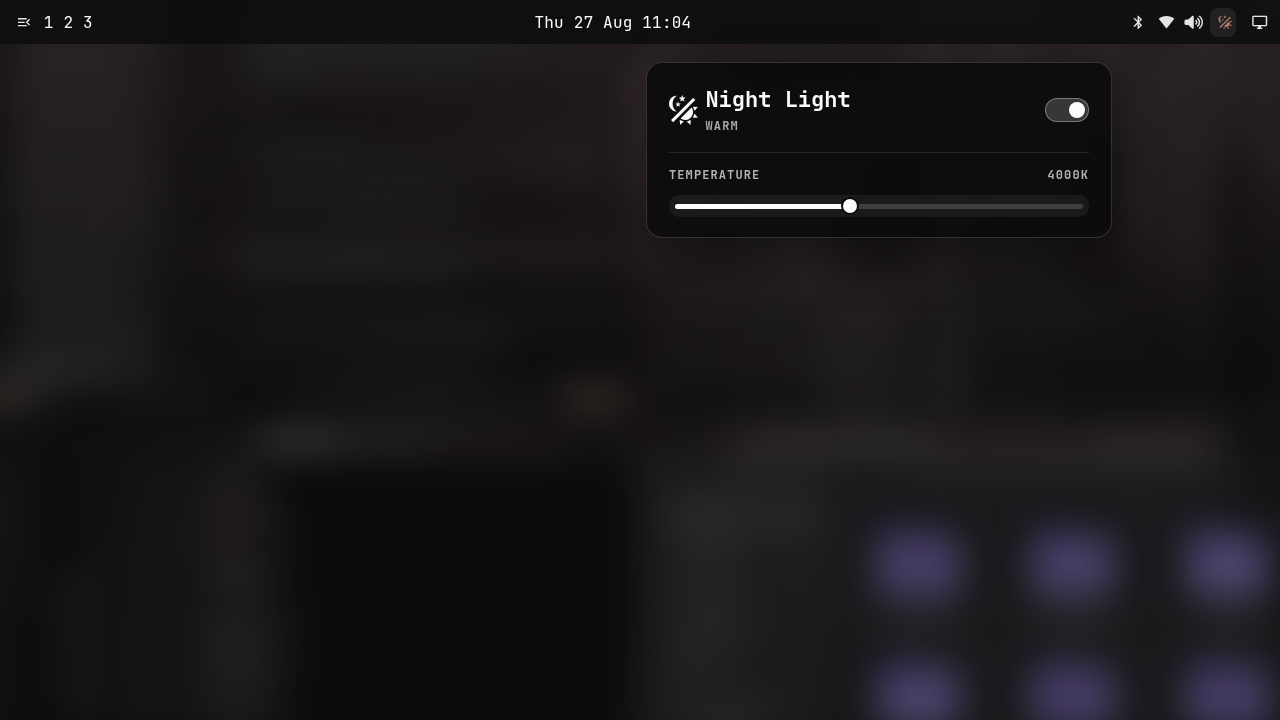
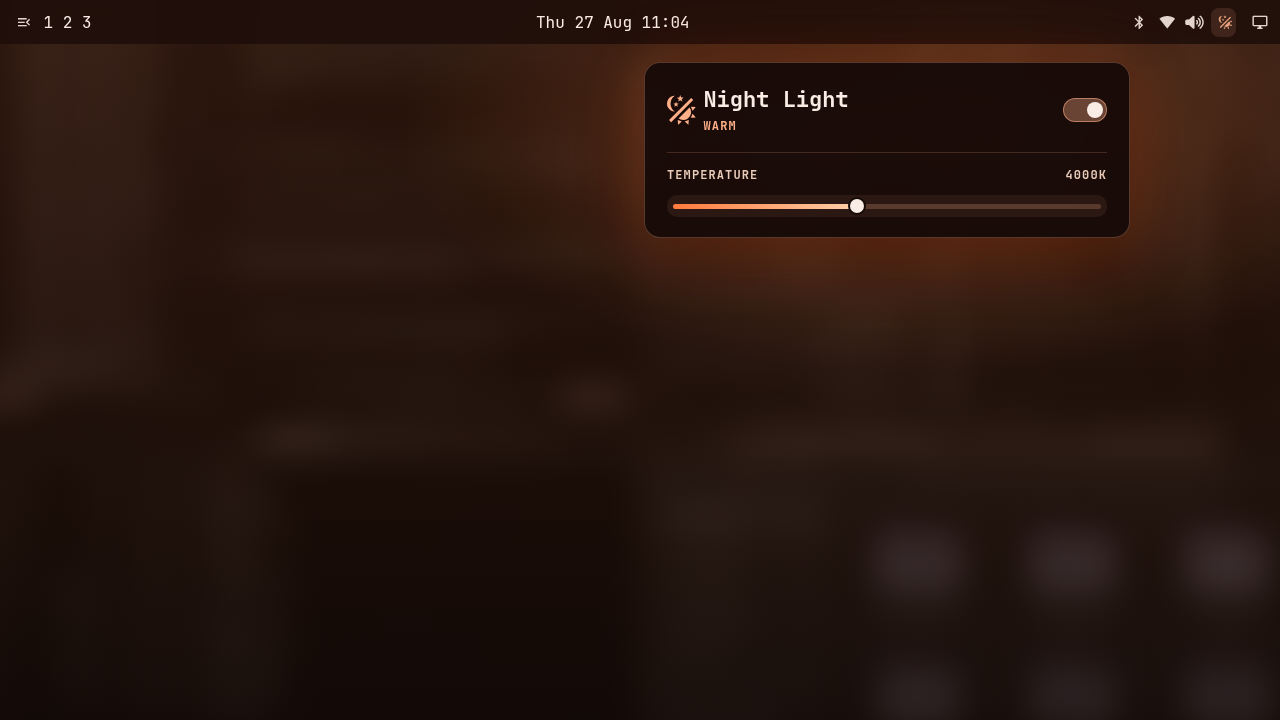
Make the store listing easier to find and nicer to look at.
Warm up the preview, name the plugin for hyprsunset / night light / red
light search, and spell out that it uses Omarchy's built-in hyprsunset.

Changed region(s): [[0.375, 0.0, 1.0, 0.4583], [0.6562, 0.7028, 1.0, 0.8556], [0.6562, 0.8861, 1.0, 1.0]]

diff --git a/README.md b/README.md
@@ -1,8 +1,10 @@
-# Hyprsunset
+# Hyprsunset Night Light
 
-Night light controls for the Omarchy Quattro bar. Toggle hyprsunset on or off and set the screen color temperature with a slider.
+Night light / red light controls for the Omarchy bar: an on/off switch and a color temperature slider for **hyprsunset**.
 
-Requires [hyprsunset](https://github.com/hyprwm/hyprsunset), which ships with Omarchy.
+Omarchy already ships hyprsunset. This plugin talks to that native filter (`hyprctl hyprsunset`) — the same one as `omarchy toggle nightlight` and the bar’s night light indicator. Nothing else to install.
+
+Keywords: hyprsunset, night light, nightlight, red light, blue light filter, color temperature.
 
 ## Install
 
@@ -22,7 +24,7 @@ omarchy bar move io.github.marioxabel.hyprsunset --section right
 - Right click the icon to toggle night light
 - Scroll the icon to change temperature
 - In the panel, use the switch to turn night light on or off
-- Drag the slider between 2000K (warm) and 5500K (neutral)
+- Drag the slider between 2000K (warm / red light) and 5500K (neutral)
 - Press Escape to close the panel
 
 Turning night light off restores daylight (6500K), matching Omarchy’s built-in night light. Turning it back on restores your last slider value.
